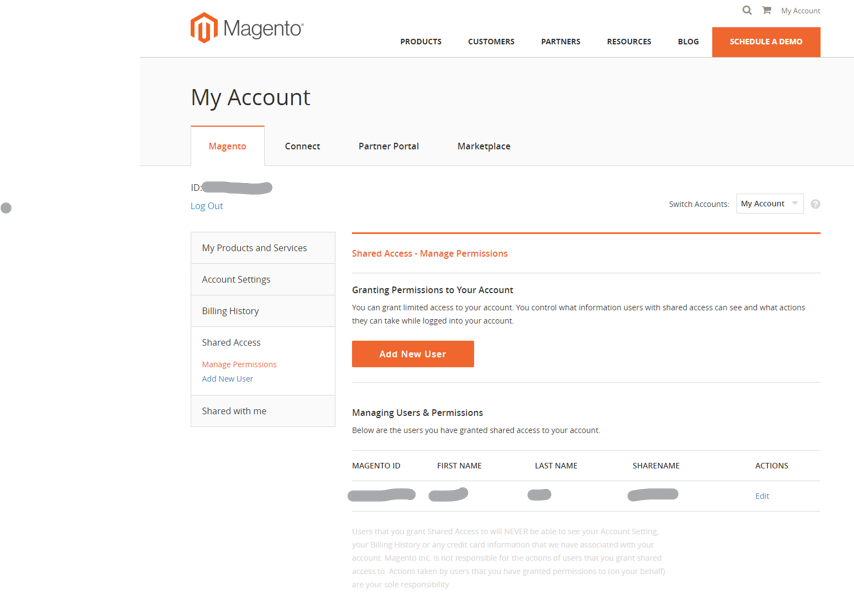
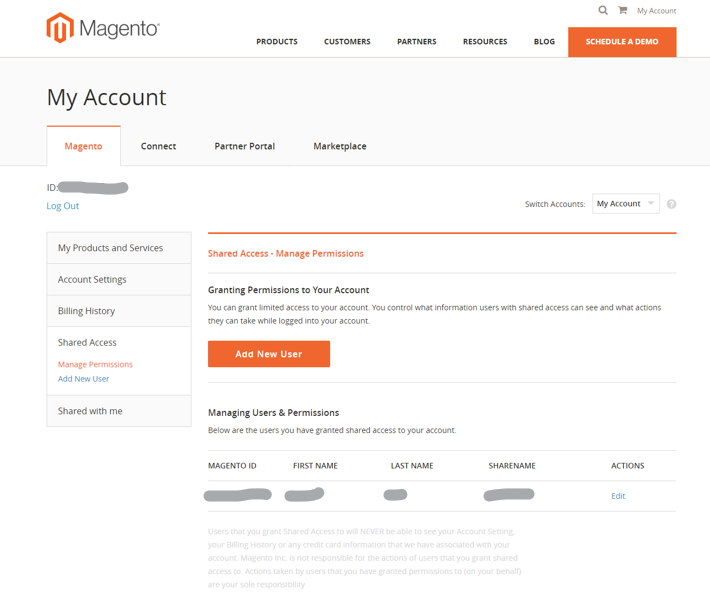
update

diff --git a/help/help-center-guide/help-center/magento-help-center-user-guide.md b/help/help-center-guide/help-center/magento-help-center-user-guide.md
@@ -75,7 +75,7 @@ In this guide, learn how to submit a support ticket to the [Adobe Commerce Help 
 
 >[!NOTE]
 >
->Unless you have been notified, continue to use [Adobe Commerce Help Center case flow](#what-is). If you have been notified that you are in the cohort with access, follow the Experience League case form flow described [below](#what-is-experience-league-support).
+>Unless you have been notified, continue to use the [Adobe Commerce Help Center case flow](#what-is). If you have been notified that you are in the cohort with access, follow the Experience League case form flow described [below](#what-is-experience-league-support).
 
 ## WHAT IS EXPERIENCE LEAGUE SUPPORT? {#what-is-experience-support}
 
@@ -708,7 +708,7 @@ See the [Share a Commerce account](https://experienceleague.adobe.com/en/docs/co
 
 After providing shared access for a new user, the related information is available in **Shared Access** > **Manage Permissions** of your Adobe Commerce account page.
 
-![magento-account-shared-manage-permissions](assets/magento_account_shared_manage_permissions.png){width="800"}
+![magento-account-shared-manage-permissions](assets/magento_account_shared_manage_permissions.png)
 
 ### Revoke (delete) shared access {#revoke-shared-access}
 
